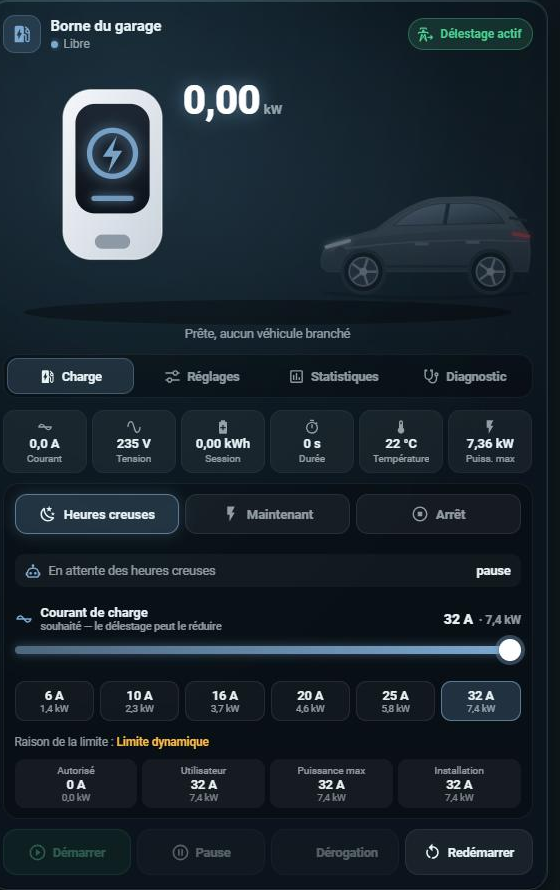
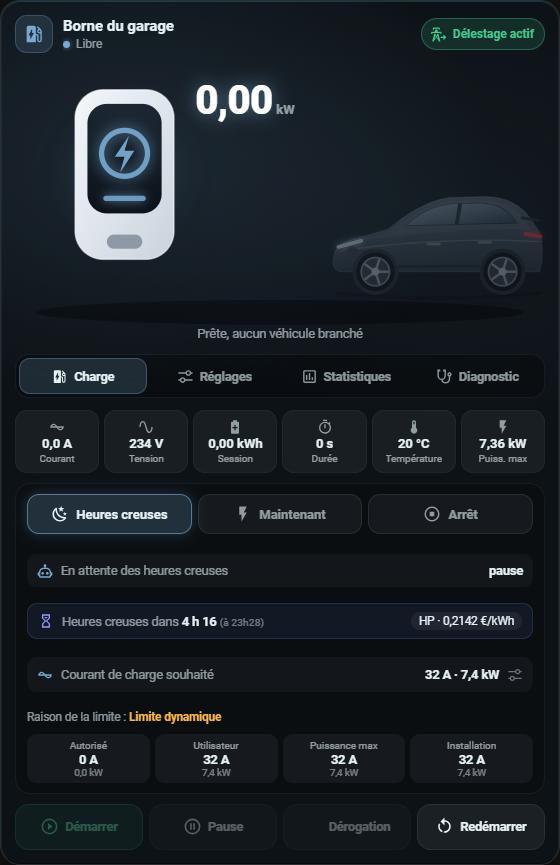
Add files via upload

diff --git a/custom_components/lektrico_holm/www/holm-borne-card.js b/custom_components/lektrico_holm/www/holm-borne-card.js
@@ -1,13 +1,14 @@
-/* holm-borne-card — HOLM Cards — licence MIT — v2.3.1 */
+/* holm-borne-card — HOLM Cards — licence MIT — v2.6.0 */
 /* HOLM Borne — carte de borne de recharge (HOLM Lektrico, intégration Lektrico officielle et compatibles)
- * - Illustration animée borne → câble → voiture selon l'état.
+ * - Illustration animée borne → câble → voiture selon l'état, ou votre photo (avec animation de charge).
  * - Onglets : Charge (mesures, limite, actions) · Réglages (interrupteurs et curseurs) ·
  *   Statistiques (compteurs) · Diagnostic (défauts, Wi-Fi, santé de la liaison, courants système).
  * - Délestage : interrupteur optionnel (automatisation) intégré à l'entête.
+ * - Mode Heures creuses : décompte jusqu'aux prochaines heures creuses (HOLM HP/HC, détecté automatiquement).
  * Les entités sont détectées depuis l'appareil de l'entité « État » (clé de traduction, sinon suffixe).
  */
 (() => {
-  const VERSION = "2.3.1";
+  const VERSION = "2.6.0";
   // clé -> [translation_key, suffixe d'entity_id, domaine]
   const MAP = {
     state: ["state", "etat", "sensor"], power: ["power", "puissance", "sensor"], current: ["current", "courant", "sensor"],
@@ -136,11 +137,17 @@
     setConfig(config) {
       if (!config || !config.entity) throw new Error("Choisis l'entité « État » de la borne.");
       this._config = { show_diagnostic: true, show_settings: true, car_color: "#4a5d70", default_tab: "charge", ...config };
-      this._e = null; this._opt = {}; this._confirm = null; this._tab = this._config.default_tab;
+      this._e = null; this._imgKey = null; this._imgShown = null; this._opt = {}; this._confirm = null; this._tab = this._config.default_tab;
       if (!this.shadowRoot) this.attachShadow({ mode: "open" });
       this._built = false;
       if (this._hass) this.hass = this._hass;
     }
+    connectedCallback() {
+      clearInterval(this._tick);
+      // le décompte des heures creuses avance même si aucune entité ne change
+      this._tick = setInterval(() => { if (this._built && this._hass && this._tab === "charge" && !this._drag) this._render(); }, 30000);
+    }
+    disconnectedCallback() { clearInterval(this._tick); this._tick = null; }
     getCardSize() { return 10; }
     getGridOptions() { return { columns: 12, min_columns: 6, rows: "auto" }; }
 
@@ -149,7 +156,18 @@
       if (!this._config) return;
       if (!this._e) this._detect();
       if (!this._built) this._build();
+      this._resolveImg();
       this._render();
+    }
+    // photo : média de la médiathèque (résolu en URL signée) ou adresse directe
+    _resolveImg() {
+      const m = this._config.image_media, id = m && m.media_content_id;
+      if (!id) { this._img = null; this._imgKey = null; return; }
+      if (this._imgKey === id) return;
+      this._imgKey = id;
+      this._hass.callWS({ type: "media_source/resolve_media", media_content_id: id, expires: 86400 })
+        .then((r) => { this._img = r.url.startsWith("http") ? r.url : this._hass.hassUrl(r.url); this._render(); })
+        .catch(() => { this._img = null; });
     }
 
     _detect() {
@@ -181,6 +199,33 @@
       return o.v;
     }
 
+    // ---- heures creuses (HOLM HP/HC) ----
+    // entité : option de la carte, sinon celle du pilotage HOLM Lektrico, sinon binary_sensor exposant prochaine_bascule
+    _hcEnt() {
+      const h = this._hass, ok = (id) => { const s = id && h.states[id]; return !!s && s.attributes.prochaine_bascule !== undefined; };
+      if (this._config.hc_entity) return ok(this._config.hc_entity) ? this._config.hc_entity : null;
+      const fromPilot = this._s("pilot")?.attributes?.entite_heures_creuses;
+      if (ok(fromPilot)) return fromPilot;
+      if (ok(this._hcAuto)) return this._hcAuto;
+      this._hcAuto = ok("binary_sensor.heures_creuses") ? "binary_sensor.heures_creuses"
+        : Object.keys(h.states).find((k) => k.startsWith("binary_sensor.") && h.states[k].attributes.prochaine_bascule !== undefined && h.states[k].attributes.prochaine_periode !== undefined) || null;
+      return this._hcAuto;
+    }
+    _hcLine() {
+      const id = this._hcEnt(); if (!id) return "";
+      const s = this._hass.states[id], a = s.attributes;
+      if (!["on", "off"].includes(s.state)) return "";
+      const on = s.state === "on", next = a.prochaine_bascule ? new Date(a.prochaine_bascule) : null;
+      if (!next || isNaN(next)) return "";
+      const now = new Date(), min = Math.max(0, Math.round((next - now) / 60000));
+      const hm = next.toLocaleTimeString("fr-FR", { hour: "2-digit", minute: "2-digit" }).replace(":", "h");
+      const day = next.toDateString() === now.toDateString() ? "" : new Date(now.getTime() + 864e5).toDateString() === next.toDateString() ? "demain " : next.toLocaleDateString("fr-FR", { weekday: "long" }) + " ";
+      const dur = min >= 60 ? `${Math.floor(min / 60)} h ${String(min % 60).padStart(2, "0")}` : `${min} min`;
+      const txt = on ? `Heures creuses jusqu'à <b>${day}${hm}</b>` : `Heures creuses dans <b>${dur}</b> <small>(à ${day}${hm})</small>`;
+      const t = Number(a.tarif), tarif = isFinite(t) && a.tarif != null ? `<em>${on ? "HC" : "HP"} · ${fmtN(t, 4)} €/kWh</em>` : "";
+      return `<div class="hcd${on ? " on" : ""}" data-more="${esc(id)}"><ha-icon icon="${on ? "mdi:weather-night" : "mdi:timer-sand"}"></ha-icon><span>${txt}</span>${tarif}</div>`;
+    }
+
     _build() {
       const root = this.shadowRoot;
       root.innerHTML = `<style>${HolmBorneCard.css()}</style>
@@ -192,7 +237,7 @@
             <div class="ttl" data-more="state"><div class="name" id="name"></div><div class="status"><span class="dot"></span><span id="status"></span></div></div>
             <button class="dl" id="dl" title="Délestage"><ha-icon icon="mdi:transmission-tower-export"></ha-icon><span id="dltxt">Délestage</span></button>
           </div>
-          <div class="hero">${ILLU}<div class="big"><b id="pw">–</b><small>kW</small></div><div class="sub" id="sub"></div></div>
+          <div class="hero" id="hero">${ILLU}<div class="photo" id="photo"><i class="pglow"></i><i class="pbar"></i></div><div class="big"><b id="pw">–</b><small>kW</small></div><div class="sub" id="sub"></div></div>
           <div class="tabs" id="tabs">${TABS.map(([k, i, l]) => `<button data-tab="${k}"><ha-icon icon="${i}"></ha-icon><span>${l}</span><i class="badge-dot" id="tb-${k}"></i></button>`).join("")}</div>
           <div class="pane" id="pane"></div>
         </div>
@@ -214,19 +259,49 @@
         if (t.dataset.more) return this._more(this._e[t.dataset.more] || t.dataset.more);
       });
       card.addEventListener("contextmenu", (ev) => { if (ev.target.closest("#dl")) { ev.preventDefault(); this._more(this._dlId()); } });
-      card.addEventListener("input", (ev) => {
-        const r = ev.target.closest("input[data-num]"); if (!r) return;
-        this._drag = r.dataset.num;
+      // Curseurs protégés contre les gestes involontaires : il faut saisir la pastille et la faire glisser
+      // horizontalement. Un toucher sur la piste ou un défilement vertical de la page ne change rien.
+      const show = (r) => {
         const out = r.closest(".srow")?.querySelector("output"); if (out) out.innerHTML = this._fmtNum(r.dataset.num, +r.value);
         const fill = r.parentElement.querySelector(".fill"); if (fill) fill.style.width = `${((r.value - r.min) / (r.max - r.min)) * 100}%`;
+      };
+      const valAt = (r, x) => {
+        const b = r.getBoundingClientRect(), mn = +r.min, mx = +r.max, st = +r.step || 1;
+        const f = Math.max(0, Math.min(1, (x - b.left - 11) / Math.max(1, b.width - 22)));
+        return Math.round((mn + f * (mx - mn)) / st) * st;
+      };
+      const thumbX = (r) => { const b = r.getBoundingClientRect(); return b.left + 11 + ((+r.value - +r.min) / ((+r.max - +r.min) || 1)) * (b.width - 22); };
+      let g = null;
+      card.addEventListener("pointerdown", (ev) => {
+        const sl = ev.target.closest(".slider"); if (!sl) return;
+        const r = sl.querySelector("input[data-num]"); if (!r || r.disabled) return;
+        if (Math.abs(ev.clientX - thumbX(r)) > 24) return;          // pas sur la pastille : on ignore
+        g = { r, sl, id: ev.pointerId, x0: ev.clientX, y0: ev.clientY, active: false, v0: r.value };
       });
-      card.addEventListener("change", (ev) => {
-        const r = ev.target.closest("input[data-num]"); if (!r) return;
+      card.addEventListener("pointermove", (ev) => {
+        if (!g || ev.pointerId !== g.id) return;
+        const dx = Math.abs(ev.clientX - g.x0), dy = Math.abs(ev.clientY - g.y0);
+        if (!g.active) {
+          if (dy > 8 && dy > dx) { g = null; return; }               // défilement de la page
+          if (dx < 8) return;
+          g.active = true; this._drag = g.r.dataset.num;
+          try { g.sl.setPointerCapture(ev.pointerId); } catch (e) { /* rien */ }
+        }
+        ev.preventDefault();
+        g.r.value = valAt(g.r, ev.clientX); show(g.r);
+      });
+      const end = (ev, commit) => {
+        if (!g || (ev && ev.pointerId !== g.id)) return;
+        const { r, active, v0 } = g; g = null;
+        if (!active) return;
         this._drag = null;
+        if (!commit || String(r.value) === String(v0)) { r.value = v0; show(r); return; }
         const id = this._e[r.dataset.num]; if (!id) return;
         this._opt[r.dataset.num] = { v: Number(r.value), ts: Date.now() };
         this._call("number", "set_value", { entity_id: id, value: Number(r.value) });
-      });
+      };
+      card.addEventListener("pointerup", (ev) => end(ev, true));
+      card.addEventListener("pointercancel", (ev) => end(ev, false));
       this._built = true;
     }
 
@@ -286,6 +361,10 @@
       card.classList.toggle("unav", unav);
       $("name").textContent = cfg.name || (so && so.attributes.friendly_name ? so.attributes.friendly_name.replace(/\s*(État|Etat|State)$/i, "") : "Borne de recharge");
       card.style.setProperty("--car", cfg.car_color);
+      const img = this._img || cfg.image || "";
+      $("hero").classList.toggle("hasimg", !!img);
+      if (img && this._imgShown !== img) { $("photo").style.backgroundImage = `url("${String(img).replace(/"/g, "%22")}")`; this._imgShown = img; }
+      $("photo").style.backgroundSize = cfg.image_fit === "contain" ? "contain" : "cover";
       if (unav) { $("status").textContent = "Indisponible"; return; }
       const st = STATES[so.state] || { l: so.state, d: "", rgb: "150,160,178", icon: "mdi:ev-station", fx: "idle" };
       const pw = this._n("power"), en = this._n("energy"), tm = this._n("time");
@@ -373,8 +452,8 @@
           lim = `<div class="block lim pilot${r && r !== "no_limit" ? " capped" : ""}">
             <div class="modes">${MODES.map(([k, ic, l]) => `<button class="md${mode === k ? " on" : ""}" data-mode="${k}"><ha-icon icon="${ic}"></ha-icon><span>${l}</span></button>`).join("")}</div>
             <div class="pst" data-more="pilot"><ha-icon icon="mdi:robot-outline"></ha-icon><span>${ps ? esc(ps.state) : ""}</span>${applied != null ? `<b>${applied ? `${fmtN(applied)} A · ${this._kw(applied)}` : "pause"}</b>` : ""}</div>
-            ${mode !== "arret" && this._e.charge_a ? `${this._slider("charge_a", "mdi:current-ac", "Courant de charge", dlS && this._optv("dl", dlS.state) === "on" ? "souhaité — le délestage peut le réduire" : "souhaité")}
-            <div class="presets">${pre.map((a) => `<button class="pre${ca === a ? " on" : ""}" data-preset="${a}" data-pk="charge_a"><b>${a} A</b><small>${this._kw(a)}</small></button>`).join("")}</div>` : ""}
+            ${mode === "heures_creuses" ? this._hcLine() : ""}
+            ${mode !== "arret" && this._e.charge_a && ca != null ? `<button class="cwant" data-tab="settings" title="Modifier dans l'onglet Réglages"><ha-icon icon="mdi:current-ac"></ha-icon><span>Courant de charge souhaité</span><b>${fmtN(ca)} A · ${this._kw(ca)}</b><ha-icon class="go" icon="mdi:tune-variant"></ha-icon></button>` : ""}
             <div class="reason" data-more="reason">${r ? `Raison de la limite : <b>${esc(REASON[r] || r)}</b>` : ""}</div>
             <div class="chips">${chips}</div></div>`;
         } else {
@@ -429,7 +508,17 @@
         this._slider("led_delay", "mdi:timer-sand", "Atténuation de la LED", "après ce délai"),
         this._slider("install_set", "mdi:home-lightning-bolt", "Courant d'installation", "réglage électricien — prudence"),
       ].join("");
-      return `<div class="sec">Fonctions</div><div class="tgrid">${t || `<div class="muted">Aucun réglage disponible.</div>`}</div>
+      // courant de charge souhaité (pilotage HOLM Lektrico) : ici plutôt que dans l'onglet Charge, à l'abri des touchers involontaires
+      let want = "";
+      if (this._e.charge_a && this._ok("charge_a")) {
+        const ca = this._optv("charge_a", this._n("charge_a")), mx = Number(this._s("charge_a")?.attributes?.max ?? 32);
+        const dlS = this._dlId() ? this._hass.states[this._dlId()] : null;
+        want = `<div class="sec">Courant de charge</div><div class="block lim pilot">
+          ${this._slider("charge_a", "mdi:current-ac", "Courant de charge", dlS && this._optv("dl", dlS.state) === "on" ? "souhaité — le délestage peut le réduire" : "souhaité")}
+          <div class="presets">${[6, 10, 16, 20, 25, 32].filter((a) => a <= mx).map((a) => `<button class="pre${ca === a ? " on" : ""}" data-preset="${a}" data-pk="charge_a"><b>${a} A</b><small>${this._kw(a)}</small></button>`).join("")}</div>
+          <div class="hint">Faites glisser la pastille, ou touchez une valeur.</div></div>`;
+      }
+      return `${want}<div class="sec">Fonctions</div><div class="tgrid">${t || `<div class="muted">Aucun réglage disponible.</div>`}</div>
         ${sl ? `<div class="sec">Limites et LED</div><div class="block">${sl}</div>` : ""}`;
     }
 
@@ -532,6 +621,24 @@
       /* illustration */
       .hero { position: relative; }
       .illu { width: 100%; height: auto; display: block; overflow: visible; }
+      .photo { display: none; position: relative; aspect-ratio: 2 / 1; border-radius: 16px; overflow: hidden; background: center / cover no-repeat rgba(255,255,255,.03);
+        box-shadow: inset 0 0 0 1px rgba(255,255,255,.07); transition: box-shadow .6s; }
+      .hero.hasimg .illu { display: none; } .hero.hasimg .photo { display: block; }
+      .photo::before { content: ""; position: absolute; inset: 0; background: linear-gradient(180deg, rgba(0,0,0,.55) 0%, rgba(0,0,0,0) 38%, rgba(0,0,0,0) 70%, rgba(0,0,0,.45) 100%); }
+      .pglow { position: absolute; inset: 0; border-radius: inherit; opacity: 0; box-shadow: inset 0 0 0 2px rgba(var(--m), .85), inset 0 0 28px rgba(var(--m), .55); transition: opacity .6s; }
+      .pbar { position: absolute; left: 0; right: 0; bottom: 0; height: 5px; opacity: 0; transition: opacity .6s;
+        background: repeating-linear-gradient(90deg, rgba(var(--m), .25) 0 14px, rgba(var(--m), 1) 14px 28px); background-size: 56px 100%; filter: drop-shadow(0 0 6px rgba(var(--m), .9)); }
+      ha-card[data-fx="plug"] .pbar { opacity: .45; }
+      ha-card[data-fx="error"] .pglow { opacity: 1; animation: blink 1s steps(2) infinite; }
+      ha-card.active .pglow { opacity: 1; animation: pglow 2.4s ease-in-out infinite; }
+      ha-card.active .pbar { opacity: 1; animation: pbar var(--flow) linear infinite; }
+      @keyframes pglow { 50% { opacity: .35; } }
+      @keyframes pbar { to { background-position: 56px 0; } }
+      ha-card[data-fx="idle"] .photo { filter: saturate(.75) brightness(.85); }
+      .hero.hasimg .big { left: 16px; top: 10px; }
+      .hero.hasimg .big b { text-shadow: 0 2px 10px rgba(0,0,0,.7), 0 0 18px rgba(var(--m), .6); }
+      .hero.hasimg .sub { margin-top: 8px; }
+      @media (prefers-reduced-motion: reduce) { .pglow, .pbar { animation: none !important; } }
       .floor { fill: rgba(0,0,0,.35); }
       .halo { opacity: .55; } .h0 { stop-color: rgba(var(--m), .55); }
       ha-card.active .halo { animation: halo 2.4s ease-in-out infinite; }
@@ -625,14 +732,24 @@
       .md ha-icon { --mdc-icon-size: 18px; }
       .md.on { background: rgba(var(--m), .22); border-color: rgba(var(--m), .6); color: var(--tx); box-shadow: 0 0 14px rgba(var(--m), .25); }
       .pst { display: flex; align-items: center; gap: 8px; padding: 8px 10px; border-radius: 10px; background: rgba(255,255,255,.04); font-size: 12.5px; color: var(--tx2); margin-bottom: 8px; cursor: pointer; }
+      .hcd { display: flex; align-items: center; gap: 8px; padding: 8px 10px; border-radius: 10px; background: rgba(120,140,255,.08); border: 1px solid rgba(120,140,255,.18); font-size: 12.5px; color: var(--tx2); margin: -2px 0 8px; cursor: pointer; flex-wrap: wrap; }
+      .hcd.on { background: rgba(62,207,142,.08); border-color: rgba(62,207,142,.22); }
+      .hcd ha-icon { --mdc-icon-size: 16px; color: #8f9bff; } .hcd.on ha-icon { color: #3ecf8e; }
+      .hcd span { flex: 1; min-width: 0; } .hcd b { color: var(--tx); font-variant-numeric: tabular-nums; } .hcd small { opacity: .75; }
+      .hcd em { font-style: normal; white-space: nowrap; font-variant-numeric: tabular-nums; font-size: 11.5px; padding: 2px 8px; border-radius: 999px; background: rgba(255,255,255,.06); color: var(--tx); }
       .pst ha-icon { --mdc-icon-size: 16px; color: rgb(var(--m)); } .pst span { flex: 1; min-width: 0; } .pst b { color: var(--tx); white-space: nowrap; font-variant-numeric: tabular-nums; }
       @container (max-width: 430px) { .md span { font-size: 12px; } .md ha-icon { display: none; } }
       .pre { display: flex; flex-direction: column; align-items: center; padding: 6px 2px; border-radius: 10px; border: 1px solid rgba(255,255,255,.08); background: rgba(255,255,255,.04); color: var(--tx); cursor: pointer; font: inherit; }
+      .cwant { display: flex; align-items: center; gap: 8px; width: 100%; padding: 9px 10px; margin-bottom: 8px; border-radius: 10px; background: rgba(255,255,255,.04); font-size: 12.5px; color: var(--tx2); cursor: pointer; }
+      .cwant ha-icon { --mdc-icon-size: 16px; color: rgb(var(--m)); } .cwant span { flex: 1; } .cwant b { color: var(--tx); font-variant-numeric: tabular-nums; }
+      .cwant .go { color: var(--tx2); opacity: .7; }
+      .hint { font-size: 11px; color: var(--tx2); margin-top: 6px; opacity: .8; }
       .pre b { font-size: 12.5px; } .pre small { font-size: 9.5px; color: var(--tx2); }
       .pre.on { background: rgba(var(--m), .22); border-color: rgba(var(--m), .6); }
       .track { position: absolute; left: 0; right: 0; top: 50%; height: 8px; transform: translateY(-50%); border-radius: 4px; background: rgba(255,255,255,.08); }
       .fill { position: absolute; left: 0; top: 0; bottom: 0; border-radius: 4px; background: linear-gradient(90deg, rgba(var(--m), .5), rgb(var(--m))); box-shadow: 0 0 10px rgba(var(--m), .45); }
-      input[type=range] { position: absolute; inset: 0; width: 100%; margin: 0; background: transparent; -webkit-appearance: none; appearance: none; cursor: pointer; }
+      input[type=range] { position: absolute; inset: 0; width: 100%; margin: 0; background: transparent; -webkit-appearance: none; appearance: none; cursor: pointer; pointer-events: none; }
+      .slider { touch-action: pan-y; cursor: grab; }
       input[type=range]::-webkit-slider-runnable-track { background: transparent; height: 100%; }
       input[type=range]::-moz-range-track { background: transparent; }
       input[type=range]::-webkit-slider-thumb { -webkit-appearance: none; width: 22px; height: 22px; margin-top: 2px; border-radius: 50%; background: #fff; box-shadow: 0 0 0 4px rgba(var(--m), .35), 0 2px 6px rgba(0,0,0,.5); }
@@ -701,6 +818,12 @@
           { name: "entity", required: true, selector: { entity: { domain: "sensor" } } },
           { name: "name", selector: { text: {} } },
           { name: "delestage_entity", selector: { entity: { domain: ["automation", "input_boolean", "switch"] } } },
+          { name: "hc_entity", selector: { entity: { domain: "binary_sensor" } } },
+          { type: "expandable", title: "Photo (à la place de l'illustration)", icon: "mdi:image", flatten: true, schema: [
+            { name: "image_media", selector: { media: { accept: ["image/*"] } } },
+            { name: "image", selector: { text: {} } },
+            { name: "image_fit", selector: { select: { mode: "dropdown", options: [{ value: "cover", label: "Remplir le cadre" }, { value: "contain", label: "Image entière" }] } } },
+          ] },
           { type: "grid", name: "", schema: [
             { name: "default_tab", selector: { select: { mode: "dropdown", options: [{ value: "charge", label: "Charge" }, { value: "settings", label: "Réglages" }, { value: "stats", label: "Statistiques" }, { value: "diag", label: "Diagnostic" }] } } },
             { name: "car_color", selector: { text: {} } },
@@ -710,11 +833,13 @@
             { name: "show_diagnostic", selector: { boolean: {} } },
           ] },
         ];
-        const L = { entity: "Entité « État » de la borne", name: "Nom affiché", delestage_entity: "Délestage (si non intégré : automatisation)",
-          default_tab: "Onglet affiché par défaut", car_color: "Couleur de la voiture (ex. #4a5d70)", show_settings: "Onglet Réglages", show_diagnostic: "Onglet Diagnostic" };
+        const L = { entity: "Entité « État » de la borne", name: "Nom affiché", delestage_entity: "Délestage (si non intégré : automatisation)", hc_entity: "Heures creuses pour le décompte (HOLM HP/HC, détectées automatiquement)",
+          default_tab: "Onglet affiché par défaut", image_media: "Photo (médiathèque : vous pouvez y téléverser une image)", image: "… ou adresse d'une image (ex. /local/borne.jpg)", image_fit: "Cadrage de la photo", car_color: "Couleur de la voiture (ex. #4a5d70)", show_settings: "Onglet Réglages", show_diagnostic: "Onglet Diagnostic" };
         f.computeLabel = (s) => L[s.name] || s.name;
         f.addEventListener("value-changed", (ev) => {
-          ev.stopPropagation(); this._config = ev.detail.value; this._self = true;
+          ev.stopPropagation(); this._config = { ...ev.detail.value }; this._self = true;
+          if (this._config.image_media && !this._config.image_media.media_content_id) delete this._config.image_media;
+          for (const k of ["image", "image_fit", "hc_entity"]) if (!this._config[k]) delete this._config[k];
           this.dispatchEvent(new CustomEvent("config-changed", { detail: { config: this._config }, bubbles: true, composed: true }));
           setTimeout(() => (this._self = false), 0);
         });

diff --git a/tests/test_lektrico_holm.py b/tests/test_lektrico_holm.py
@@ -213,6 +213,8 @@ async def test_pilot_off_peak(hass, charger, info_reset):
     assert st.get("switch.garage_borne_de_recharge_delestage").state == "on"
     assert _dyn(charger)[-1] == 0                          # heures pleines : pause
     assert "attente des heures creuses" in st.get("sensor.garage_borne_de_recharge_pilotage").state
+    # la carte retrouve l'entité heures creuses du pilotage (décompte HOLM HP/HC)
+    assert st.get("sensor.garage_borne_de_recharge_pilotage").attributes["entite_heures_creuses"] == "input_boolean.hc"
     hass.states.async_set("input_boolean.hc", "on")
     await hass.async_block_till_done()
     assert _dyn(charger)[-1] == 32                         # heures creuses : pleine puissance

diff --git a/custom_components/lektrico_holm/sensor.py b/custom_components/lektrico_holm/sensor.py
@@ -199,4 +199,4 @@ class PilotSensor(LektricoEntity, SensorEntity):
         st = self._pilot.status
         return {"mode": st.get("mode"), "heures_creuses": st.get("hc"), "cible": st.get("target"),
                 "plafond_delestage": st.get("cap"), "limite": st.get("applied"), "delestage": st.get("delestage"),
-                "ecritures": self._pilot.writes}
+                "ecritures": self._pilot.writes, "entite_heures_creuses": self._pilot.hc_entity}

diff --git a/custom_components/lektrico_holm/const.py b/custom_components/lektrico_holm/const.py
@@ -2,7 +2,7 @@
 from __future__ import annotations
 
 DOMAIN = "lektrico_holm"
-VERSION = "1.1.0"
+VERSION = "1.2.0"
 STATIC_PATH = "/lektrico_holm"
 CARD_NAME = "holm-borne-card.js"
 CARD_URL = f"{STATIC_PATH}/{CARD_NAME}"

diff --git a/README.md b/README.md
@@ -84,12 +84,15 @@ name: Borne du garage
   - mesures (courant, tension, énergie, durée, température, puissance maximale) ;
   - limite de charge en A et en kW, raison de la limite, limites autorisée, utilisateur, puissance et installation ;
   - boutons Démarrer, Arrêter, Pause, Reprendre, Dérogation, et Redémarrer avec confirmation.
-- **Pilotage** : modes Heures creuses / Maintenant / Arrêt, courant de charge au curseur ou par boutons rapides (6 à 32 A, avec leur équivalent en kW), état du pilotage et limite appliquée.
-- **Réglages** : tous les interrupteurs de la borne et les curseurs limite utilisateur, puissance maximale, courant minimal du véhicule et LED.
+- **Pilotage** : modes Heures creuses / Maintenant / Arrêt, état du pilotage et limite appliquée, rappel du courant de charge souhaité (un toucher mène à l'onglet Réglages).
+- **Décompte des heures creuses** : en mode Heures creuses, « Heures creuses dans 4 h 16 (à 23h28) » et le tarif en cours, ou « Heures creuses jusqu'à 05h28 » pendant les heures creuses. Avec [HOLM HP/HC](https://github.com/kaaribou/holm-tarif), c'est automatique ; sans, rien ne change.
+- **Réglages** : le courant de charge souhaité (6 à 32 A, avec raccourcis et équivalent en kW), tous les interrupteurs de la borne et les curseurs limite utilisateur, puissance maximale, courant minimal du véhicule et LED.
+- **Votre photo** à la place de l'illustration (médiathèque ou adresse d'image, cadrage remplir ou image entière) : contour lumineux et barre animée en charge, barre fixe quand le véhicule est branché, contour qui clignote en erreur.
+- **Protégée des gestes involontaires** : les curseurs ne bougent qu'en saisissant la pastille et en la faisant glisser ; un toucher sur la piste ou un défilement de la page ne change rien.
 - **Statistiques** : énergie totale, sessions, temps de charge, dernière session, moyenne par session.
 - **Diagnostic** : contrôles de défauts, signal Wi-Fi, santé de la liaison et courants internes.
 
-Options : `name`, `delestage_entity`, `default_tab` (`charge`, `settings`, `stats`, `diag`), `show_settings`, `show_diagnostic`, `car_color` (couleur de la voiture, ex. `#4a5d70`), `phases` (`1` ou `3`, pour l'équivalent en kW), `voltage` (tension nominale, 230 par défaut). L'éditeur visuel est disponible.
+Options : `name`, `delestage_entity`, `hc_entity` (heures creuses pour le décompte, trouvées automatiquement), `image_media` / `image` (photo), `image_fit` (`cover` ou `contain`), `default_tab` (`charge`, `settings`, `stats`, `diag`), `show_settings`, `show_diagnostic`, `car_color` (couleur de la voiture, ex. `#4a5d70`), `phases` (`1` ou `3`, pour l'équivalent en kW), `voltage` (tension nominale, 230 par défaut). L'éditeur visuel est disponible.
 
 La carte fonctionne aussi avec l'intégration Lektrico officielle : les entités sont retrouvées à partir de l'appareil de l'entité « État ».
 
@@ -102,7 +105,7 @@ HOLM Lektrico peut **piloter lui-même la borne**, sans aucune automatisation : 
 | Réglage | Rôle |
 |---|---|
 | **Activer le pilotage** | Crée le mode de charge, l'interrupteur Délestage, le courant de charge et le capteur Pilotage. |
-| **Entité « heures creuses »** | Une entité qui indique les heures creuses : capteur de tarif, `binary_sensor`, `input_boolean`… |
+| **Entité « heures creuses »** | Une entité qui indique les heures creuses : capteur de tarif, `binary_sensor`, `input_boolean`… Recommandé : `binary_sensor.heures_creuses` de [HOLM HP/HC](https://github.com/kaaribou/holm-tarif) (valeur `on`), qui donne aussi à la carte le décompte jusqu'aux prochaines heures creuses. |
 | **Valeur(s) signifiant « heures creuses »** | Par exemple `on`, `HC` ou le prix du kWh en heures creuses (`0.1589`) ; les nombres sont comparés comme des nombres. |
 | **Puissance consommée au compteur** | Facultatif, pour le délestage : Linky/TIC, Ecojoko, Shelly EM… en W. |
 | **Puissance maximale au compteur** | Abonnement moins une marge : 12 kVA → 11 500 W, 9 kVA → 8 500 W, 6 kVA → 5 500 W. |
@@ -122,7 +125,7 @@ La limite écrite dans la borne est toujours `min(courant de charge selon le mod
 
 > 💡 Désactivez le **programme de charge** propre à la borne (interrupteur « Programme de charge ») : il se battrait avec le mode Heures creuses.
 
-La carte HOLM Borne affiche alors les trois modes, le courant de charge avec ses raccourcis (6 à 32 A, avec leur équivalent en kW) et l'état du pilotage ; son bouton Délestage commande l'interrupteur intégré.
+La carte HOLM Borne affiche alors les trois modes, l'état du pilotage et, en mode Heures creuses, le décompte jusqu'aux prochaines heures creuses ; le courant de charge (6 à 32 A, avec raccourcis) se règle dans son onglet Réglages, et son bouton Délestage commande l'interrupteur intégré.
 
 **Vous utilisiez les automatisations de délestage de la version 1.0 ?** Activez le pilotage puis désactivez-les : elles écriraient sur la même limite.
 

diff --git a/CHANGELOG.md b/CHANGELOG.md
@@ -1,5 +1,13 @@
 # Changelog
 
+## 1.2.0
+
+- **Carte HOLM Borne 2.6 — décompte des heures creuses** (#1) : en mode Heures creuses, la carte affiche « Heures creuses dans 4 h 16 (à 23h28) » et le tarif en cours, ou « Heures creuses jusqu'à 05h28 » pendant les heures creuses. L'entité vient de HOLM HP/HC (`binary_sensor.heures_creuses`), détectée automatiquement : celle choisie dans le pilotage si elle convient, sinon la première qui expose `prochaine_bascule`, ou l'option `hc_entity` de la carte. Sans HOLM HP/HC, rien ne change.
+- **Photo personnalisée** dans la carte : option « Photo » (médiathèque ou adresse d'image, cadrage remplir ou image entière) à la place de l'illustration ; contour lumineux et barre animée en charge, barre fixe quand le véhicule est branché, contour qui clignote en erreur.
+- **Protection contre les actions involontaires** : le courant de charge souhaité passe dans l'onglet Réglages (l'onglet Charge en affiche un résumé qui y mène d'un toucher) ; tous les curseurs ne réagissent plus qu'en saisissant la pastille et en la faisant glisser horizontalement.
+- Capteur Pilotage : nouvel attribut `entite_heures_creuses`.
+- README : HOLM HP/HC conseillé comme source des heures creuses.
+
 ## 1.1.0
 
 - **Pilotage intégré de la charge**, sans automatisation (Options → Pilotage de la charge) :
